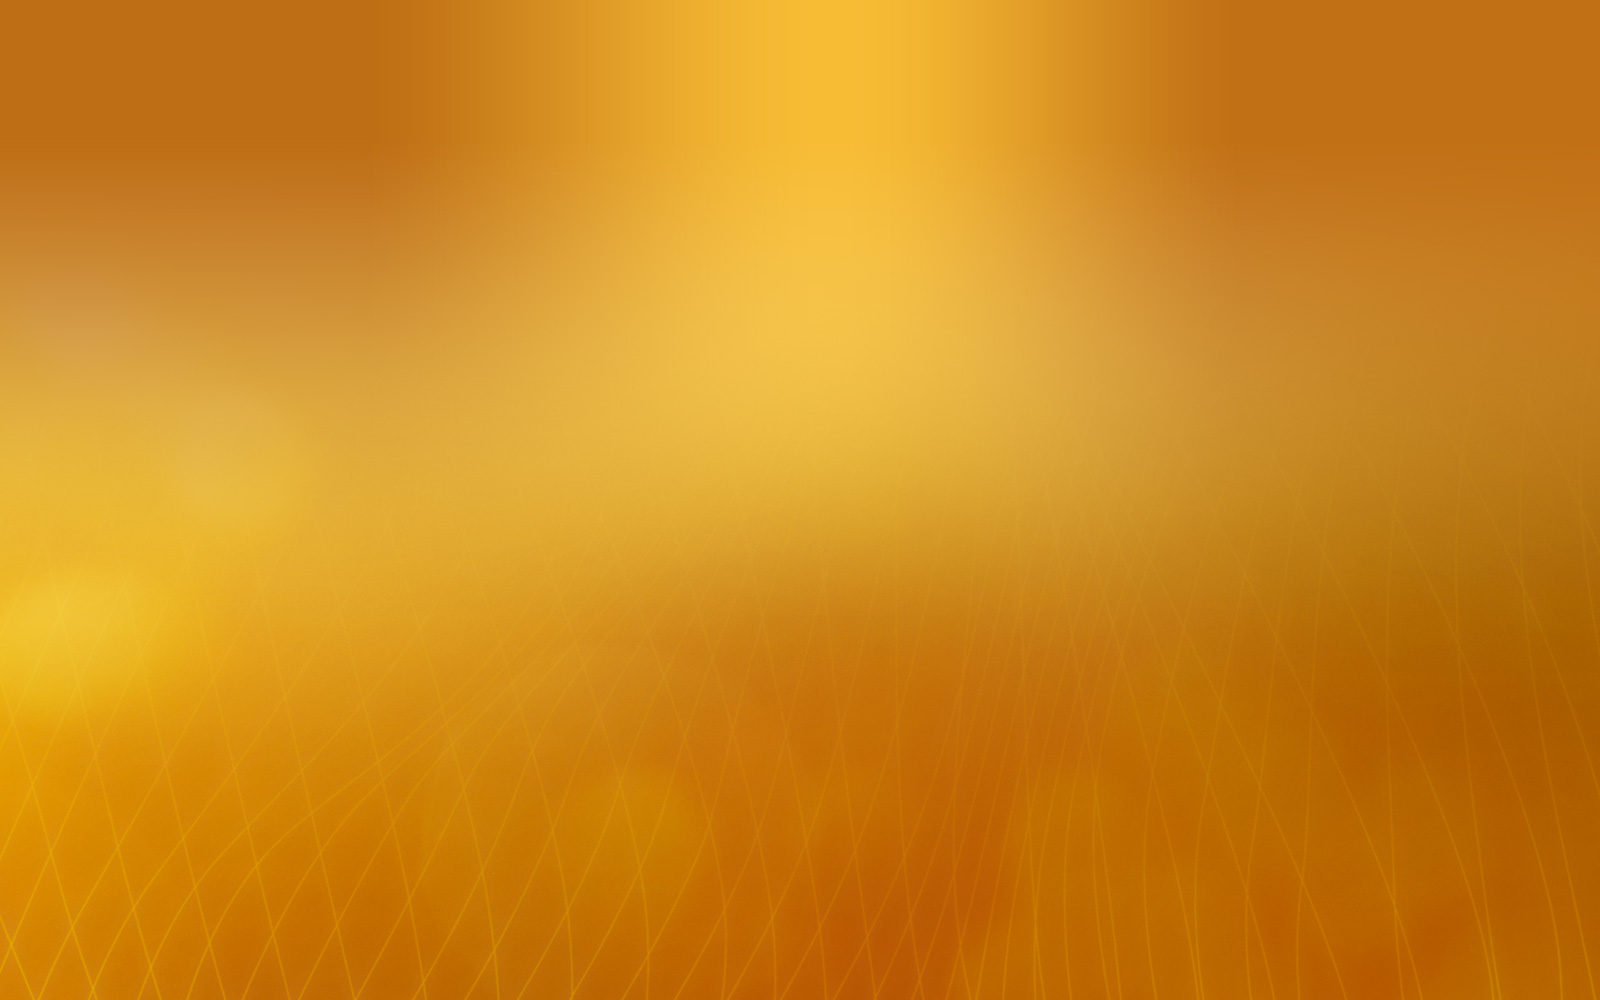
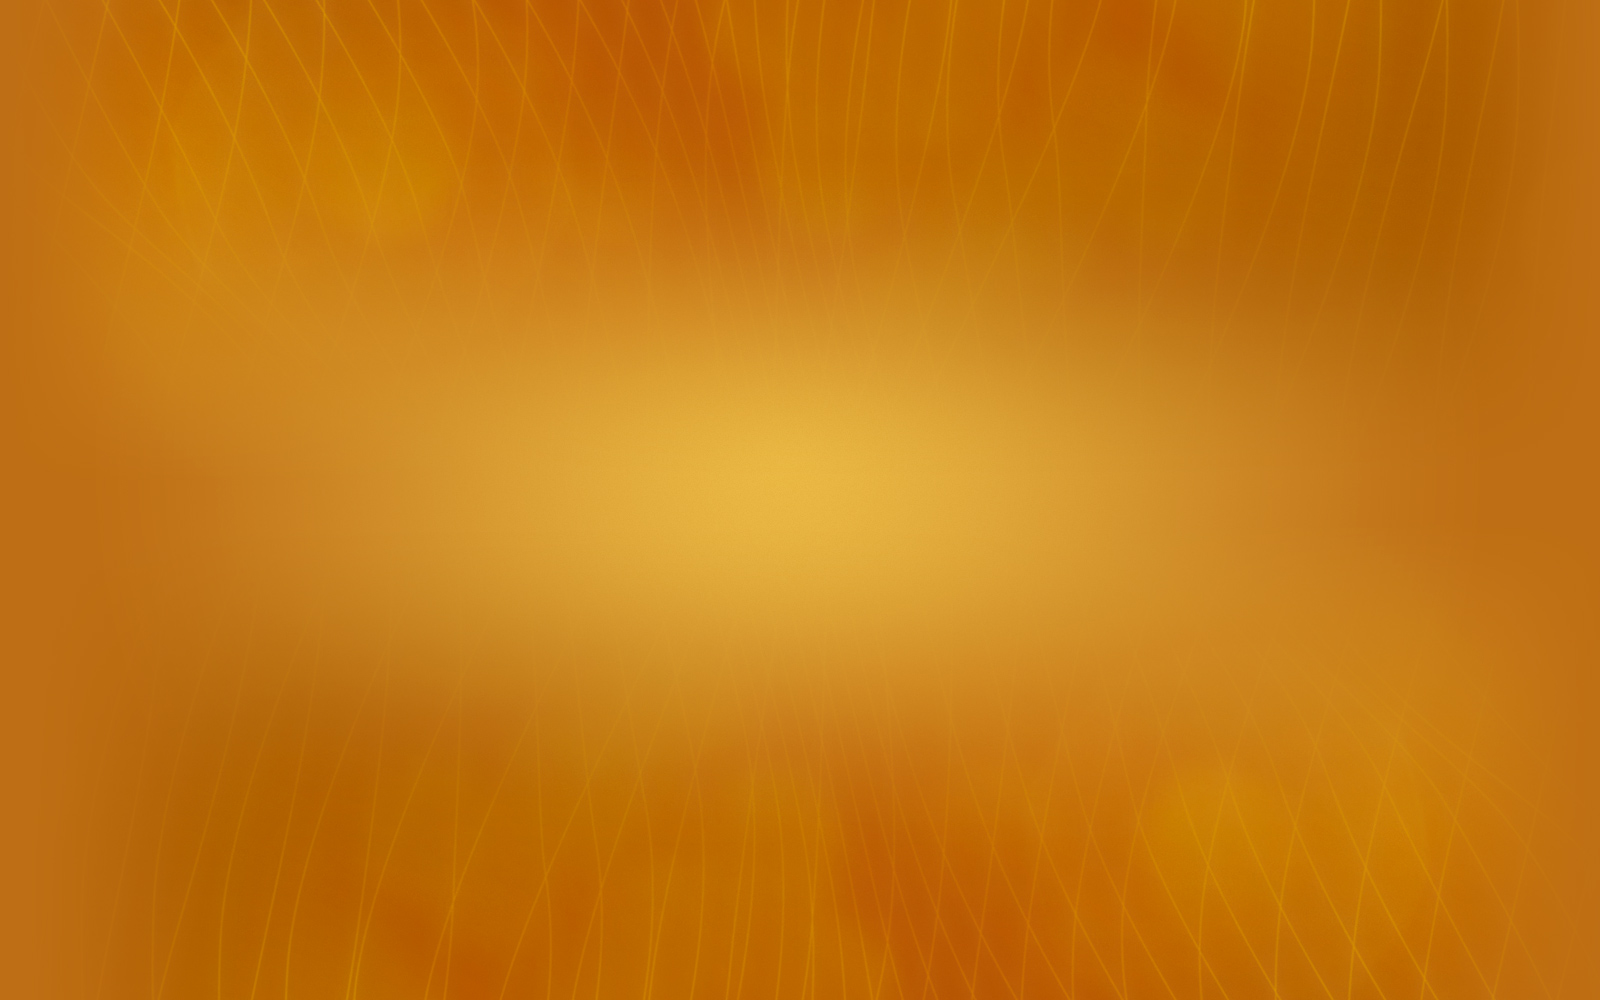
static report page

diff --git a/css/main.css b/css/main.css
@@ -660,25 +660,43 @@ navigation
 report-promotion 
 =====================*/
 #report-promotion {
-	min-height: 500px;
-	background:#bc6e23 url(../img/report-promote-bg.jpg) no-repeat top center;
+	min-height: 560px;
+	background:#bc6e23 url(../img/report-promote-bg.jpg) no-repeat bottom center;
 }
+#report-promotion-product {
+	position: relative;
+}
+
 #report-promotion .reprot-section-arrow {
 	border-top-color:#ffbd32;
 }
 #report-promotion .report-container {
-	
-	height: 600px;
+
 }
 #report-promotion-video {
-	width: 442px;
-	height: 248px;
-	background: url(../img/report-promote-videobg.png) no-repeat top center;
-	padding-top:4px;
-	padding-left:0px;
+	width: 465px;
+	height: 300px;
+	margin:0 auto;
+	border-radius: 2px;
+	padding: 5px;
 	position: relative;
-	left: 395px;
-	top:105px;
+	top: -30px;
+	background: #EEFF99;
+	background: -webkit-gradient(linear, 0 0, 0 bottom, from(#f4e7bc), to(#ebb948));
+	background: -webkit-linear-gradient(#f4e7bc, ##ebb948);
+	background: -moz-linear-gradient(#f4e7bc, #ebb948);
+	background: -ms-linear-gradient(#f4e7bc, #ebb948);
+	background: -o-linear-gradient(#f4e7bc, #ebb948);
+	background: linear-gradient(#f4e7bc, #ebb948);
+	-pie-background: linear-gradient(#f4e7bc, #ebb948);
+	behavior: url(js/vendor/PIE.htc);
+}
+#report-promotion-video iframe {
+	width: 100%;
+	height: 100%;
+}
+#report-promotion-lab {
+	padding-bottom: 20px;
 }
 /*=====================
 loading 
@@ -4776,6 +4794,30 @@ left: 0;
 .refrigerator-cell:hover {
 	background-image: none;
 }
+	#report-promotion .report-container {
+		width: 1024px;
+		height: 600px;
+	}
+	#report-promotion-product {
+		float: left;
+		display: inline-block;
+	}
+	#report-promotion-video {
+		float: right;
+		position: static;
+		margin-top:90px;
+	}
+	#report-promotion-lab {
+		width: 460px;
+		height: 119px;
+		position: absolute;
+		right: 0;
+		bottom: 40px;
+		z-index: 1;
+	}
+	.withPromotion #report-bottom-top {
+		position: relative;
+	}
 
 }
 @media only screen and (min-width: 1570px) {
@@ -5623,6 +5665,7 @@ left: 0;
 	#help-showerfreq {
 		top:100px;
 	}
+
 }
 @media only screen and (max-width:1023px) and (min-width:768px) {
 	#help-cat {
@@ -6115,6 +6158,19 @@ left: 0;
 	#defeat {
 		width: 150px;
 	}
+	#report-promotion-product {
+		max-width: 100%;
+	}
+	#report-promotion-product img {
+		max-width: 100%;
+	}
+	
+	#report-promotion-lab {
+		max-width: 100%;
+	}
+	#report-promotion-lab img {
+		max-width: 100%;
+	}
 }
 @media only screen and (max-width:767px) and (min-width:460px) {
 	#main {
@@ -6290,7 +6346,12 @@ left: 0;
 	.report-share>.jiathis_style_32x32>a {
 		margin-bottom: 5px;
 	}
-	
+	#report-promotion-video {
+		width: 420px;
+		height: 280px;
+		padding: 3px;
+		top:-5px;
+	}
 	
 } 
 @media only screen and (max-width:459px) {
@@ -6650,6 +6711,12 @@ left: 0;
 	}
 	.hairstyle-circle {
 		border:1px solid  #000;
+	}
+	#report-promotion-video {
+		width: 310px;
+		height: 200px;
+		padding: 3px;
+		top:-5px;
 	}
 }
 @media only screen and (min-width: 35em) {

diff --git a/reportstatic.html b/reportstatic.html
@@ -3,13 +3,14 @@
     <head>
         <meta charset="utf-8">
         <meta http-equiv="X-UA-Compatible" content="IE=edge,chrome=1">
+        <meta name="viewport" content="width=device-width, initial-scale=1.0,maximum-scale=1,user-scalable=no">
         <title></title>
 
         <link rel="stylesheet" href="css/normalize.css">
         <link rel="stylesheet" href="css/main.css">
         
     </head>
-    <body class="plain-report">
+    <body>
         
         <!-- Add your site or application content here -->
         <div id="header">
@@ -22,7 +23,7 @@
         	</h1>
         	</div>
         </div>
-        <div id="report" >
+        <div id="report"  class="reportingame withPromotion"  >
         	<div id="report-header" class="level-{{level}}">
         		<div class="report-container">
 	        		<div id="report-score">
@@ -207,15 +208,25 @@
         	</div>
         	<div id="report-promotion">
         		<div class="report-container">
-					<div class="reprot-section-arrow"></div>
-					<div id="report-promotion-video">
-						<iframe height=240 width=435 src="http://player.youku.com/embed/XNTAwMzEzNTI4" frameborder=0 allowfullscreen></iframe>
-					</div>
 					
+					<div id="report-promotion-product">
+						<a href="http://pantene.com.cn/Pages/hair-care-products.aspx" target="_blank" title="查看新潘婷产品" onclick="_hmt.push(['_trackEvent', 'promotion', 'click', 'hairCareProduct'])">
+						<img src="img/report-promotion-product.png" />
+						</a>
+					</div>
+					<div id="report-promotion-video">
+						<iframe src="http://player.youku.com/embed/XNjMwODA4NDk2" frameborder=0 allowfullscreen></iframe>
+					</div>
+					<div id="report-promotion-lab">
+						<a href="http://pantene.com.cn/hair-science/Pages/default.aspx" target="_blank" title="了解潘婷尖端科技" onclick="_hmt.push(['_trackEvent', 'promotion', 'click', 'hairScience'])">
+						<img src="img/report-promote-lab.png" />
+						</a>
+					</div>
+					<div class="reprot-section-arrow"></div>
         		</div>
         	</div>
         	<div id="report-bottom-top"></div>
-        	<div id="report-bottom-share">
+        	<div id="report-bottom-share"  style="margin-bottom:-20px;">
         		<div class="report-container">
         		<div id="reportqr">
         			<img src="img/reportqr.png" />
